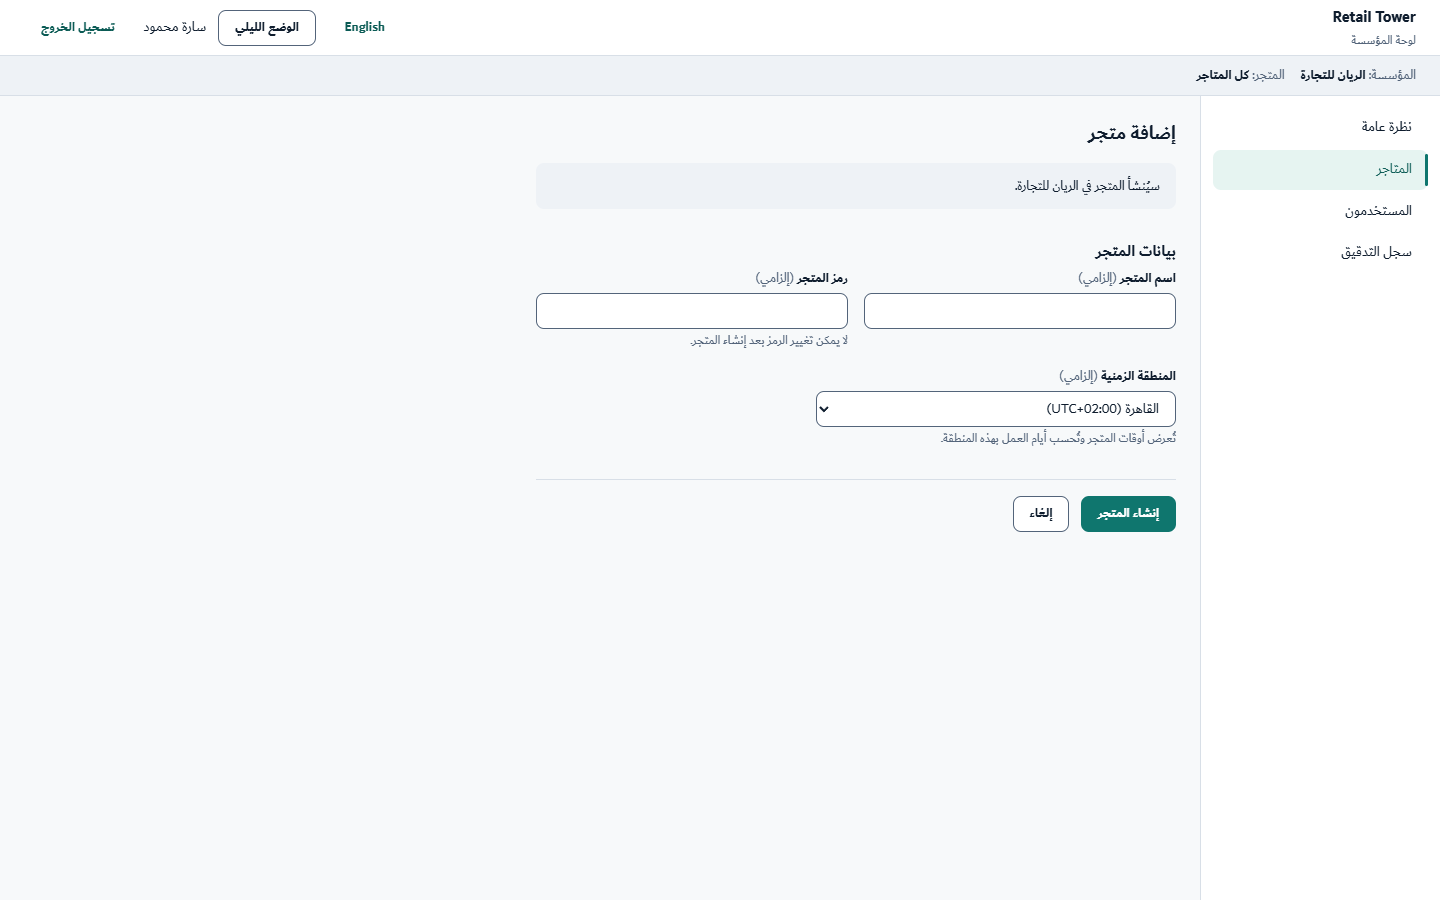
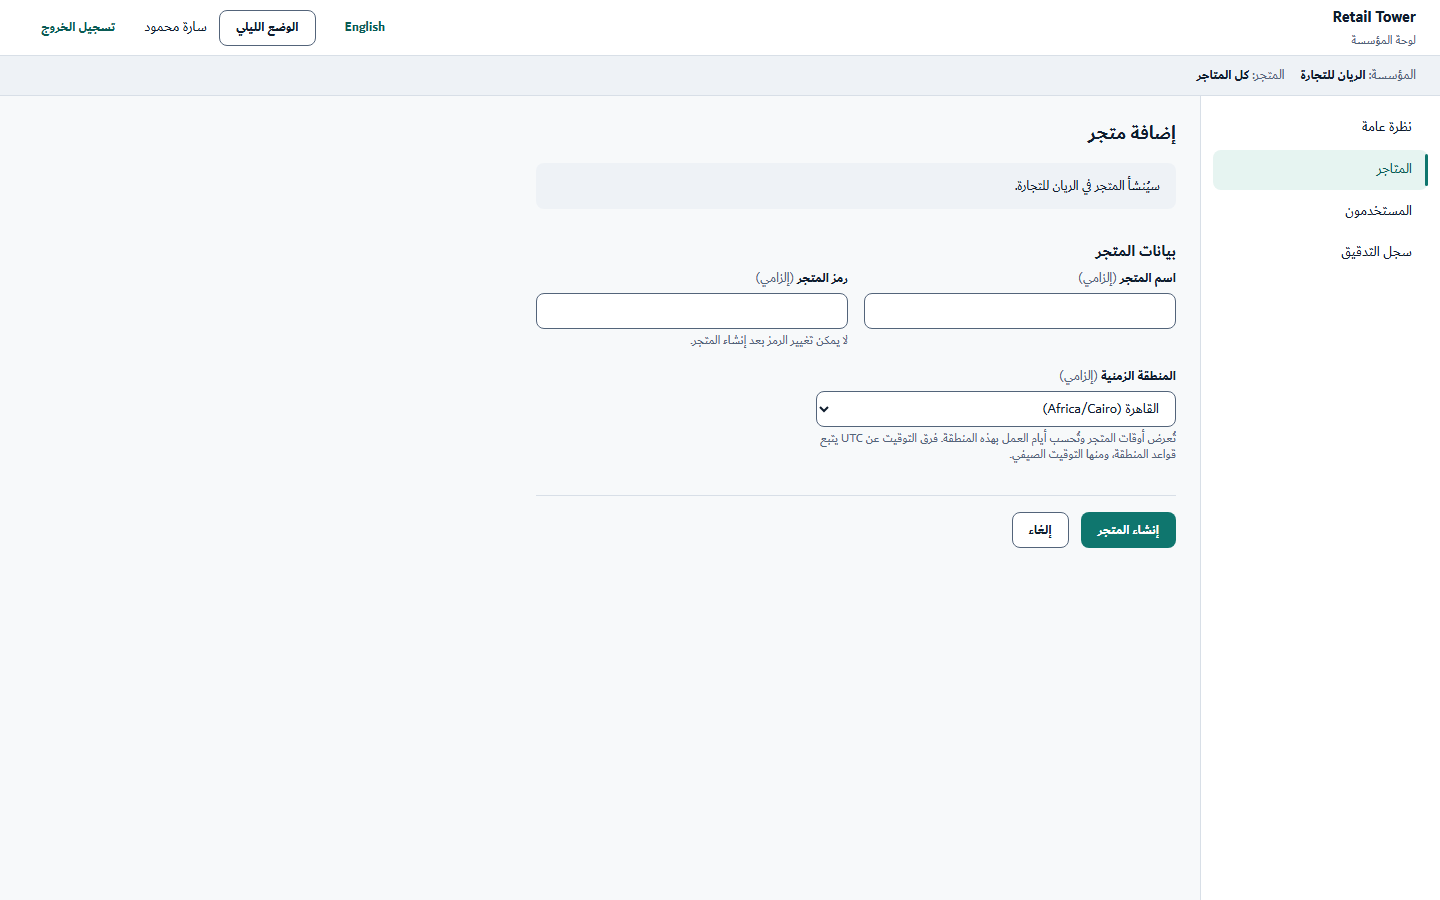
docs(design): replace Stores screens 16, 17 and 19 with the RT-400 corrections
The Claude Design project's export/screens/ still held the 12 October
versions, so the three were rendered from the corrected templates (default
view, light, Arabic, 1440x900). They apply RT-400 comment 11832: an
editable store name on edit, no «حذف المتجر» on the denial screen, and
«القاهرة (Africa/Cairo)» instead of a fixed UTC+02:00 offset. The screens
README records the provenance. Owner approval for RT-400 is still pending.

diff --git a/design/screens/README.md b/design/screens/README.md
@@ -8,6 +8,10 @@ Static PNG exports of the screen designs made in the **Retail Tower Design Syste
 - **Exported:** 12 October 2026, at 1440px wide. Claude Design split long screens top to bottom into parts (`-a`, `-b`, …) so each file stays under 180 KB; read the parts in order.
 - **Design system:** the screens use the bundle in [`../claude-design-system/`](../claude-design-system/) as synced after #94.
 - **Decisions applied:** RT-391 D1–D5; RT-414 decisions 1–4 as merged in Backend-Core #741 (purpose enum, renewal cap of 8 hours, owner and tenant-admin audit visibility, `ticket_ref` pattern); and the owner decisions of 12 October 2026. D-AUD-07 (charts), D-AUD-08 (status words) and DS-R17 (design-only actions) are recorded in the [design-system README](../claude-design-system/README.md). The one-action break-glass scope and the suspended-tenant rule are on RT-414 (comment 11711), where the suspended-tenant rule awaits contract confirmation. D-AUD-01 (only the platform team resolves an unknown outcome) and D-AUD-02 (the owner workspace is a role-gated group inside the Platform Console) are recorded in the audit trail: `templates/design-audit/DESIGN-AUDIT.md` and `FOLLOW-UPS.md` in the Claude Design project.
+- **RT-400 corrections (13 October 2026):** `16-store-create.png`, `17-store-edit.png` and `19-store-details-denied.png` replace their 12 October exports. They apply the corrections from RT-400 comment 11832: the edit form has an editable store name, the denial screen has no «حذف المتجر» action, and the time zone reads «القاهرة (Africa/Cairo)» with no fixed UTC offset.
+  - The project's `export/screens/` still held the old versions, so these three were rendered locally from the corrected templates listed in the index (default view, light, Arabic) at 1440×900. They used the synced design-system CSS, the Claude Design runtime (`support.js`) and Chromium.
+  - The fonts were a local Dubai copy, not the project's uploaded files.
+  - The change log is `templates/design-audit/rt-400/RT-400.md` in the project. The owner has not yet approved these three for RT-400.
 - **Status:** reviewed with the owner in Claude Design. These images are not an implementation sign-off: backend contracts that the screens depend on are listed in `FOLLOW-UPS.md`, and controls without a service are shown `aria-disabled` with a «تصميم فقط» reason.
 
 ## Known gaps
@@ -36,4 +40,4 @@ Static PNG exports of the screen designs made in the **Retail Tower Design Syste
 | `45-app-shell-owner.png` | App shell, owner role | `templates/app-shell/AppShell.dc.html` |
 | `46-support-session-cap-reached-a.png`<br>`46-support-session-cap-reached-b.png` | Support session at the 8-hour renewal cap (RT-414 decision 2) | `templates/platform-dashboard/PlatformDashboard.dc.html` |
 
-72 files, 7.6 MB in total; the largest is under 180 KB.
+72 files, 7.5 MB in total; the largest is under 180 KB.
